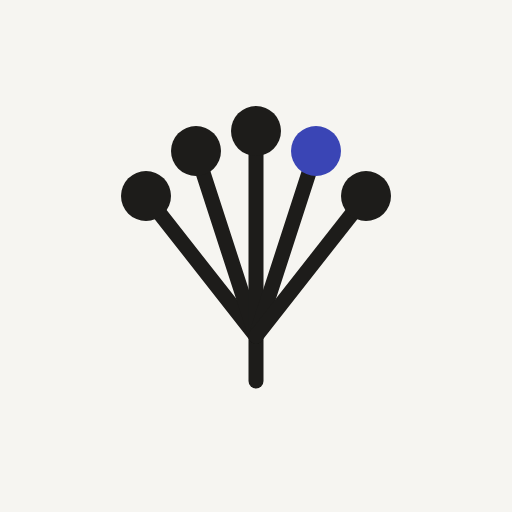
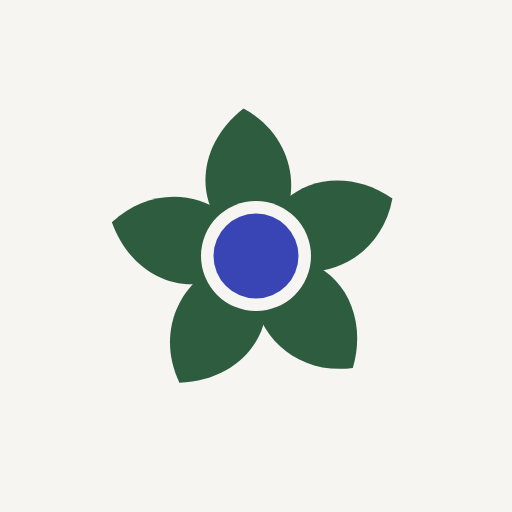
Brand: replace the placeholder umbel glyph with the Seply calyx
The glyph is five calyx-green sepals in a slight whorl holding a bud in
the product's colour (--primary, gentian in Learn). Adds the --calyx
token (contrast-tested in both themes), redraws the brand folder
(glyph, favicon, app icon, outlined wordmark, PNGs), and replaces spec
7.5's placeholder note with the brand: suite naming, bud colours for
Learn, Plan and Work, tagline and voice.

Changed region(s): [[0.2188, 0.1875, 0.7812, 0.75]]

diff --git a/packages/ui/src/components/brand.tsx b/packages/ui/src/components/brand.tsx
@@ -1,24 +1,23 @@
-import type * as React from "react"
+import * as React from "react"
 import { cn } from "cn"
 
-// The placeholder brand (spec 7.5). The standalone files live in
-// packages/ui/brand; these components draw the same marks with tokens, so they
-// follow the theme.
+// The Seply brand (spec 7.5). The standalone files live in packages/ui/brand;
+// these components draw the same marks with tokens, so they follow the theme.
 
-const DOTS = [
-  [10, 24],
-  [20, 15],
-  [32, 11],
-  [54, 24],
-] as const
-const ACCENT_DOT = [44, 15] as const
+/** One sepal, pointing up from the centre; the glyph rotates it five times. */
+const SEPAL = "M32 31C19.5 26 18.5 11 29.5 2.5C41.5 9 42 24.5 32 31Z"
+const ANGLES = [0, 72, 144, 216, 288] as const
 
-// Placeholder mark until branding lands.
-/** The old umbel glyph: stalks radiating from one point to small dots, one in indigo. */
+/**
+ * Five sepals (`--calyx`) in a slight whorl, holding a bud in the product's
+ * colour (`--primary`: gentian in Learn). A ring around the bud is cut out of
+ * the sepals, so the glyph sits on any surface.
+ */
 export function SeplyGlyph({
   className,
   ...props
 }: React.ComponentProps<"svg">) {
+  const maskId = `seply-ring-${React.useId().replace(/[^\w-]/g, "")}`
   return (
     <svg
       viewBox="0 0 64 64"
@@ -26,33 +25,25 @@ export function SeplyGlyph({
       className={cn("size-6 shrink-0", className)}
       {...props}
     >
-      <g
-        stroke="var(--foreground)"
-        strokeWidth={2.5}
-        strokeLinecap="round"
-        fill="none"
-      >
-        <path d="M32 52 L32 61" />
-        {[...DOTS, ACCENT_DOT].map(([x, y]) => (
-          <path key={`${x}-${y}`} d={`M32 52 L${x} ${y}`} />
+      <mask id={maskId}>
+        <rect width={64} height={64} fill="white" />
+        <circle cx={32} cy={32} r={11} fill="black" />
+      </mask>
+      <g fill="var(--calyx)" mask={`url(#${maskId})`}>
+        {ANGLES.map((angle) => (
+          <path
+            key={angle}
+            d={SEPAL}
+            transform={angle ? `rotate(${angle} 32 32)` : undefined}
+          />
         ))}
       </g>
-      <g fill="var(--foreground)">
-        {DOTS.map(([x, y]) => (
-          <circle key={`${x}-${y}`} cx={x} cy={y} r={4.5} />
-        ))}
-      </g>
-      <circle
-        fill="var(--primary)"
-        cx={ACCENT_DOT[0]}
-        cy={ACCENT_DOT[1]}
-        r={4.5}
-      />
+      <circle fill="var(--primary)" cx={32} cy={32} r={8.5} />
     </svg>
   )
 }
 
-/** "Seply" in Newsreader and "Learn" in IBM Plex Sans, after the glyph. */
+/** The glyph, "Seply" in Newsreader and "Learn" in IBM Plex Sans. */
 export function Wordmark({
   className,
   ...props
@@ -67,8 +58,10 @@ export function Wordmark({
     >
       <SeplyGlyph className="size-[1.4em]" />
       <span className="leading-none">
-        <span className="font-reading font-medium">Seply</span>{" "}
-        <span className="font-sans text-[0.85em] font-normal text-muted-foreground">
+        <span className="font-reading font-medium [font-variation-settings:'opsz'_72]">
+          Seply
+        </span>{" "}
+        <span className="font-sans text-[0.77em] font-normal text-muted-foreground">
           Learn
         </span>
       </span>

diff --git a/packages/ui/src/styles/globals.css b/packages/ui/src/styles/globals.css
@@ -65,6 +65,7 @@
     --color-suggested: var(--suggested);
     --color-suggested-text: var(--suggested-text);
     --color-success: var(--success);
+    --color-calyx: var(--calyx);
     --color-kind-blue: var(--kind-blue);
     --color-kind-teal: var(--kind-teal);
     --color-kind-green: var(--kind-green);
@@ -117,6 +118,7 @@
     --suggested: oklch(0.6264 0.1248 70.45); /* #B7791F: fills, dashes, borders */
     --suggested-text: oklch(0.5191 0.105 69.29); /* #8F5C14 */
     --success: oklch(0.4712 0.0963 157.26); /* #1F6B45 */
+    --calyx: oklch(0.4326 0.071 154.93); /* brand green #2D5C3F: the glyph's sepals */
 
     /* 12 named Kind / Relationship Type hues: >= 4.5:1 on ground and surface. */
     --kind-blue: oklch(0.54 0.14 250);
@@ -172,6 +174,7 @@
     --suggested: oklch(0.7912 0.1184 79.71); /* #E3B25C */
     --suggested-text: oklch(0.7912 0.1184 79.71); /* #E3B25C */
     --success: oklch(0.7812 0.1199 157.83); /* #6FCF9A */
+    --calyx: oklch(0.7802 0.0804 153.84); /* #8FC7A0 */
 
     /* Same hues, lighter: >= 6:1 on ground and surface. */
     --kind-blue: oklch(0.702 0.126 250);

diff --git a/packages/ui/src/styles/tokens.test.ts b/packages/ui/src/styles/tokens.test.ts
@@ -40,6 +40,7 @@ const text = [
   ["accent", "--primary"],
   ["suggested-text", "--suggested-text"],
   ["success", "--success"],
+  ["calyx (brand)", "--calyx"],
 ] as const
 
 const fills = [

diff --git a/docs/spec/v1/07-design-system.md b/docs/spec/v1/07-design-system.md
@@ -24,7 +24,7 @@ Decided in:
 
 ## 7.2 Tokens and palette
 
-shadcn `:root` / `.dark` pairs in oklch, exposed via `@theme inline`. Our own tokens are `--suggested`, `--suggested-text`, `--success`, `--font-reading` and `--kind-<name>`. The dark mode is **warm charcoal**. Every pair was checked for WCAG contrast on both the ground and surface colours:
+shadcn `:root` / `.dark` pairs in oklch, exposed via `@theme inline`. Our own tokens are `--suggested`, `--suggested-text`, `--success`, `--calyx`, `--font-reading` and `--kind-<name>`. The dark mode is **warm charcoal**. Every pair was checked for WCAG contrast on both the ground and surface colours:
 
 | Token | Light | Dark | Lowest text contrast |
 |---|---|---|---|
@@ -37,6 +37,7 @@ shadcn `:root` / `.dark` pairs in oklch, exposed via `@theme inline`. Our own to
 | suggested: fills, dashes, borders | #B7791F | #E3B25C | 3.34 light (non-text only, needs ≥ 3:1) |
 | suggested-text | #8F5C14 | #E3B25C | 5.19 |
 | success | #1F6B45 | #6FCF9A | 5.93 |
+| calyx (brand green, the glyph's sepals) | #2D5C3F | #8FC7A0 | 7.09 |
 
 - **Amber** marks suggested, in progress and "from the source". Proposals are drawn **dashed** in `--suggested`.
 - **Kind and Relationship Type colours:** a fixed palette of **12 named hues** (blue, teal, green, amber, orange, red, pink, violet, indigo, slate, brown, olive), each with a contrast-checked light and dark value. Expeditions store the **name**, never a hex value.
@@ -57,8 +58,12 @@ shadcn `:root` / `.dark` pairs in oklch, exposed via `@theme inline`. Our own to
   - **vis-timeline:** the override sheet maps its classes to our tokens.
 - **Thumbnails and SVGs** use `var(--kind-*)` fills.
 
-## 7.5 Placeholder branding
+## 7.5 Branding
 
-- **Wordmark:** "Seply" in Newsreader and "Learn" in IBM Plex Sans.
-- **Glyph:** a placeholder until the Seply branding lands: the old umbel mark (stalks radiating from one point to small dots), in ink with one indigo dot.
-- Used for the favicon, the PWA icons and the header, from one swappable folder: `packages/ui/brand`.
+- **Name:** Seply is the umbrella for agent-first, visual, multiplayer tools; each product is **Seply** + a verb: **Seply Learn** (this repo), **Seply Plan**, **Seply Work**. See [ADR 0002](../../adr/0002-rename-to-seply.md).
+- **Glyph:** five sepals in a slight whorl holding a bud. The sepals are always `--calyx`; the bud is the product's colour, which is `--primary` inside the product (gentian, #3A45B5 / #8E97F2, for Learn). A ring around the bud is cut out, so the glyph sits on any surface. It holds at 16px.
+- **Wordmark:** the glyph, "Seply" in Newsreader Medium (optical size 72) in ink, then "Learn" in IBM Plex Sans Regular at 0.77× in muted ink.
+- **Suite colours:** each product has one bud colour: Learn gentian, Plan heather (#8B3A76 / #E39ACB), Work cedar (#8C4A22 / #E0A176). Only Learn's is a token today; the others become `--primary` in their own apps. None is amber, which stays reserved for suggestions.
+- **Tagline:** "Shared perspective for people and agents."
+- **Voice:** plain, calm and specific, in sentence case, with no emoji. Say when an agent did something ("Suggested by the agent"). The outdoors theme lives in the names of big objects (Expedition), never in jokes or ornament.
+- Used for the favicon, the PWA icons and the header, from one swappable folder: `packages/ui/brand`. `SeplyGlyph` and `Wordmark` in `packages/ui/src/components/brand.tsx` draw the same marks from tokens.

diff --git a/packages/ui/README.md b/packages/ui/README.md
@@ -63,13 +63,13 @@ IBM Plex Sans (`font-sans`, the interface), IBM Plex Mono (`font-mono`, labels) 
 
 ## Brand
 
-`brand/` is the one swappable folder for the placeholder brand (spec 7.5). `apps/web` serves it as its public directory, so its files sit at the site root.
+`brand/` is the one swappable folder for the brand (spec 7.5). `apps/web` serves it as its public directory, so its files sit at the site root.
 
 | File | Use |
 |---|---|
-| `glyph.svg` | Placeholder mark until branding lands (the old umbel): stalks from one point to small dots, in ink with one indigo dot. Follows `prefers-color-scheme`. |
-| `wordmark.svg` | Glyph + "Seply" (Newsreader) + "Learn" (Plex Sans). Standalone use only: its text needs the fonts installed. In the app use `<Wordmark>`. |
-| `favicon.svg`, `favicon-32.png` | The glyph with heavier strokes for small sizes. |
+| `glyph.svg` | The Seply glyph: five calyx-green sepals holding a gentian bud (Learn). Follows `prefers-color-scheme`. |
+| `wordmark.svg` | Glyph + "Seply" (Newsreader) + "Learn" (Plex Sans), with the text as outlines, so it needs no fonts. In the app use `<Wordmark>`. |
+| `favicon.svg`, `favicon-32.png` | The glyph for browser tabs (it holds at 16px). |
 | `icon.svg` | App icon source: the glyph on the ground colour, inside the maskable safe zone. |
 | `icon-192.png`, `icon-512.png`, `apple-touch-icon.png` | PWA and iOS icons, rasterised from `icon.svg` (they work as `any` and `maskable`). The manifest arrives with WP-2.7. |
 

diff --git a/packages/ui/DIVERGENCES.md b/packages/ui/DIVERGENCES.md
@@ -27,4 +27,4 @@ All 8 are accepted. Entries marked *planned* are not built yet; the work package
 | **View status chip** (a composition, not a new component) | Spec 3.6's floating "Path to MLA · 7 of 11 read" chip with a clear button; shadcn has no dismissible chip. | `apps/web/src/expedition/status-chip.tsx`: an outline Badge (`bg-card`, `rounded-full`, `shadow-md`) holding the text and a ghost `icon-xs` Button with an X. Tokens only. | `web` | built (WP-2.4) |
 | **Switch, Label, Select, Checkbox, Field, Textarea** (prebuilt, not a divergence) | The View panel's generated settings forms. Installed with the shadcn CLI (`base-nova`). | `src/components/{switch,label,select,checkbox,field,textarea}.tsx` | `@seply/ui` | done (WP-2.4) |
 | **Command, Dialog, Label, Switch** (not a divergence) | Prebuilt shadcn (base-nova), added for global search (WP-2.6). Installed with the shadcn CLI. | `src/components/{command,dialog,label,switch}.tsx`; Command wraps `cmdk` as shadcn's does. | `@seply/ui` | done (WP-2.6) |
-| **Brand components** (not a divergence) | The placeholder wordmark and glyph (spec 7.5). | Inline SVG and text with tokens: `src/components/brand.tsx`; standalone files in `brand/`. | `@seply/ui` | done (WP-0.3) |
+| **Brand components** (not a divergence) | The Seply wordmark and glyph (spec 7.5). | Inline SVG and text with tokens: `src/components/brand.tsx`; standalone files in `brand/`. | `@seply/ui` | done (WP-0.3) |

diff --git a/CONTEXT.md b/CONTEXT.md
@@ -1,6 +1,6 @@
 # Seply Learn
 
-A tool for building, curating, and exploring Expeditions: bodies of knowledge on one subject, so a learner can take in a subject in well-defined chunks, see it from several angles, and see what they need to know first. Humans and LLMs curate Expeditions together. (Seply is the umbrella for separate LLM tools such as Learn, Work and Plan; branding is still a placeholder. The product was previously called Umbel Learn, and older planning docs say "Umbel", "Mindmaps" and "Graph"; see [ADR 0002](docs/adr/0002-rename-to-seply.md).)
+A tool for building, curating, and exploring Expeditions: bodies of knowledge on one subject, so a learner can take in a subject in well-defined chunks, see it from several angles, and see what they need to know first. Humans and LLMs curate Expeditions together. (Seply is the umbrella for separate LLM tools such as Learn, Plan and Work. The product was previously called Umbel Learn, and older planning docs say "Umbel", "Mindmaps" and "Graph"; see [ADR 0002](docs/adr/0002-rename-to-seply.md).)
 
 ## Language
 

diff --git a/README.md b/README.md
@@ -2,7 +2,7 @@
 
 A collaborative, LLM-assisted tool for building, curating and exploring **Expeditions**: bodies of knowledge on one subject. Start from an AI chat, a few files or just a prompt. Seply Learn breaks the material into well-defined **Concepts**, links them, and lets you look at them through several **Views**: a learning path, a comparison table, cause and effect, a timeline, a map, and more. Humans and AI agents curate it together, and every AI change is a suggestion you accept or dismiss.
 
-> **Status:** planning complete; the build is starting. Seply is the umbrella for separate LLM tools (Learn, Work, Plan); branding is still a placeholder. Previously called Umbel Learn ([ADR 0002](docs/adr/0002-rename-to-seply.md)).
+> **Status:** planning complete; the build is starting. Seply is the umbrella for separate LLM tools (Learn, Plan, Work): shared perspective for people and agents. Previously called Umbel Learn ([ADR 0002](docs/adr/0002-rename-to-seply.md)).
 
 ## What's here
 

diff --git a/CLAUDE.md b/CLAUDE.md
@@ -1,6 +1,6 @@
 # Seply Learn: notes for agents
 
-Seply Learn (Seply is the umbrella for Learn, Work and Plan; previously Umbel Learn, branding still a placeholder) is a collaborative, LLM-assisted tool for building, curating and exploring **Expeditions**: bodies of knowledge on one subject, built from Sources, split into Concepts and Relationships, and read through Views.
+Seply Learn (Seply is the umbrella for Learn, Plan and Work; previously Umbel Learn; branding in [spec 7.5](docs/spec/v1/07-design-system.md#75-branding)) is a collaborative, LLM-assisted tool for building, curating and exploring **Expeditions**: bodies of knowledge on one subject, built from Sources, split into Concepts and Relationships, and read through Views.
 
 ## Read before you build
 
